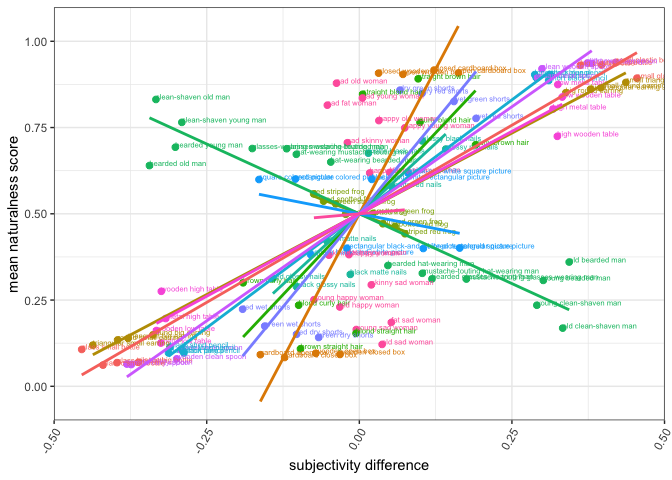
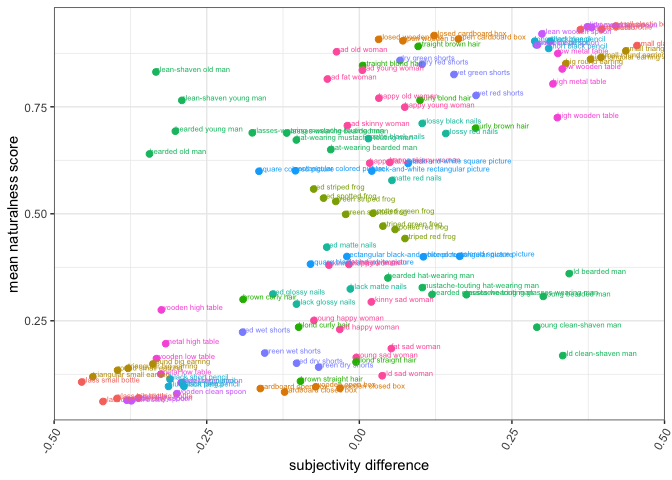
smooth rm

diff --git a/analysis/03_ordering_preferences/english/readme.md b/analysis/03_ordering_preferences/english/readme.md
@@ -29,9 +29,6 @@ Pragmatics in CTSL - Ordering Preferences (ENGLISH)
     ## Saving 7 x 5 in image
     ## `geom_smooth()` using formula 'y ~ x'
 
-    ## `geom_smooth()` using formula 'y ~ x'
-
 ![](analysis_files/figure-gfm/subjectivity_score-1.png)<!-- -->
 
     ## Saving 7 x 5 in image
-    ## `geom_smooth()` using formula 'y ~ x'
